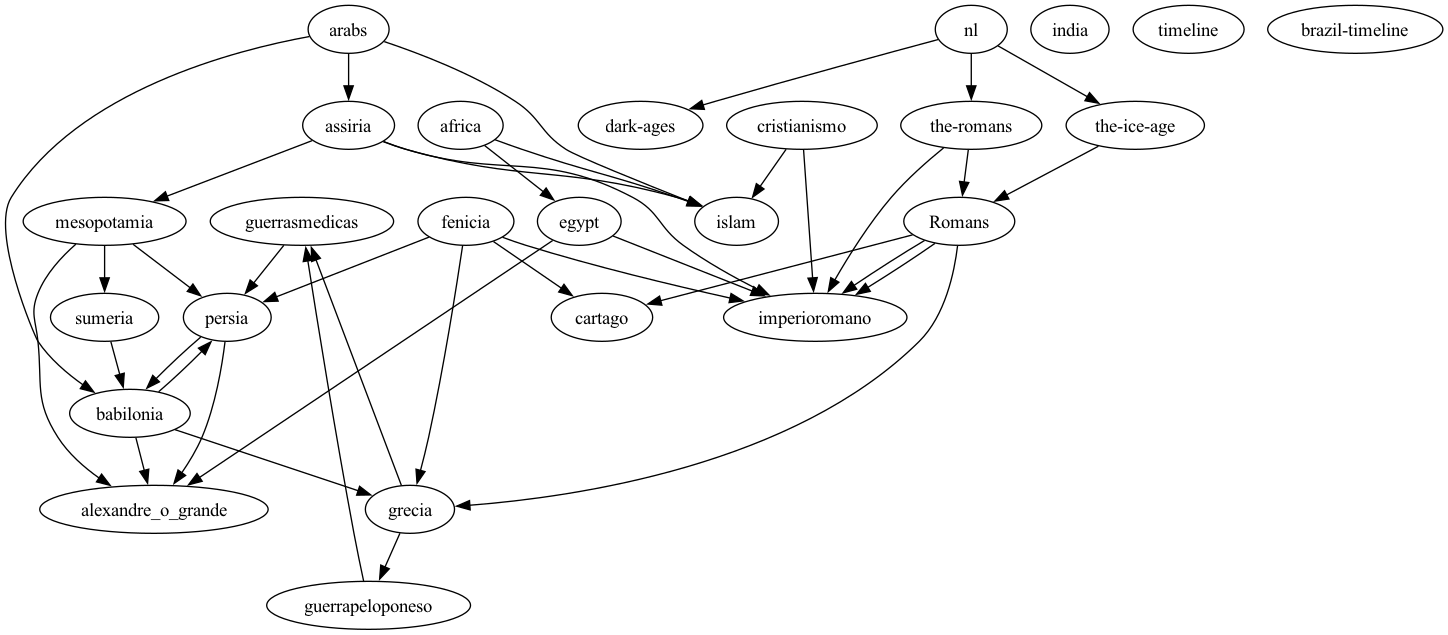
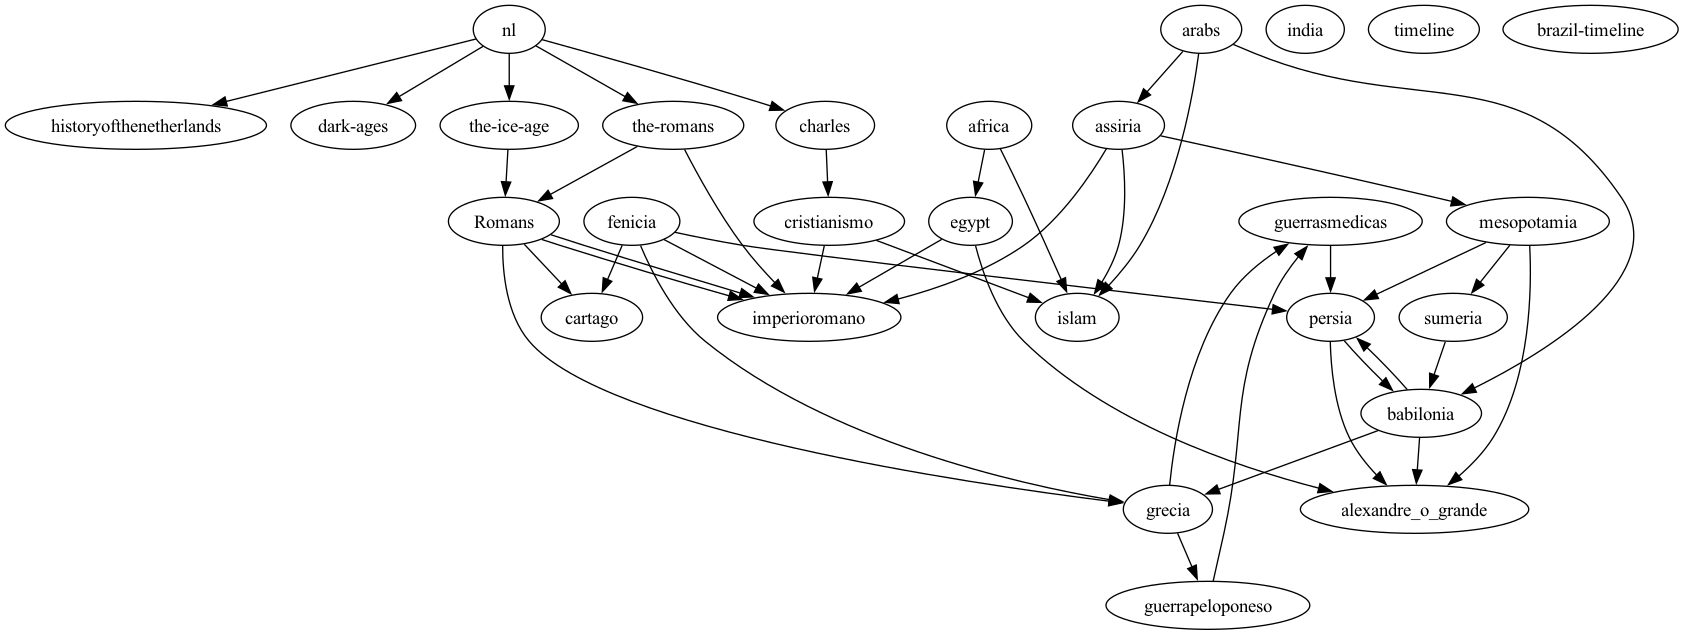
feat: carlos magno ::by sergio giraldo @ 20241214T0951CET, gpg signed

diff --git a/docs/netherlands/charles.md b/docs/netherlands/charles.md
@@ -1,0 +1,33 @@
+# Charles in Charge
+
+In the latter half of the 8th century, events and circumstances around Europe become vastly influenced by a man who ruled a huge empire from his capital city of Aachen, just a stone’s throw away from the lowlands. This man is almost single-handedly responsible for the name Charles being as popular as it is today. But this Charles was, apparently, greater than the rest, and so he gets to be called Charlemagne in French, Karl der Große in German, Carlo Magno in Italian, Karel de Grote in Dutch, or simply just Charles the Great in English.
+
+## Charlemagne’s Rise to Power
+
+Charles Martel, the grandfather of Charlemagne and the Christianiser of the Frisians, had a son named Pepin. Pepin would finally cast off the facade of the ruling Merovingian dynasty that had emerged out of the Salian Franks. Pepin had the Merovingian king sent to a monastery, and became the king of the Franks himself - the first of what would become known as the Carolingian dynasty. Pepin, being a Frank, followed the custom of dividing his land and titles between his sons. When he died, his two sons Charles and Carloman had to share the entirety of the empire with each other. Tension would grow between the two brothers until Carloman conveniently died in 771 CE, with Charles becoming the sole ruler of his father’s kingdom. He immediately set out to expand it and, after winning some 50 battles, Charles managed to claim almost the entire mainland of modern day Europe, earning his epithet ‘the great’. His empire stretched from the Atlantic Ocean to the North Sea, and as far east as the Danube river. His was a territory inhabited by many different groups, loosely tied together under labels like ‘the Franks’, but separated by rivers, forests, coasts and mountains. Out of his loosely configured empire, he would create the feudal system, which would structure European political forces for centuries to come.
+
+## The Vassal System
+
+Charlemagne created a vassal system which needed constant oversight. He was well known for going around his empire and checking the loyalty and administrative capabilities of his subjects. Although his empire was massive, big plains stretched across it from the south-west to the north-east, across modern France and Germany, coming together in the lowlands. He therefore made his capital, Aachen, located right in between these two plains. Aachen and the southern lowlands thus became the centre of the so-called Carolingian Renaissance, where art and intellectual life began to flourish in the 9th century. The culture would have spread across those plains, as well as up and down the rivers. Stoked by the establishment of [Christianity](../cristianismo) as the empire’s religion, cathedrals, abbeys and convents were built and wealth began to be amassed by the Church.
+
+| ![map](images/Topography-3.jpg) |
+| *The topography of Charlemagne’s empire. Note the location of the capital, Aachen, in relation to the lower areas.* |
+
+## Warring Grandchildren
+
+Charlemagne died in 814CE, leading to his son Louis the Pious taking over the empire. Louis later divided it into three parts, as was Frankish custom. His adult sons, Lothar, Louis the German and Charles the Bald, then began what would become a favourite family tradition of trying to kill each other in their attempts to become the sole ruler. After a period of civil war, the Treaty of Verdun split up Charlemagne’s former empire into three parts, known as East Francia, Middle Francia and West Francia.
+
+## Viking Raids
+
+It is impossible to look at the early Middle Ages in Western Europe without seeing effects of the Viking presence. Vikings came from Scandinavia in the north. Raiding down the coast, Vikings attacked Friesland and the areas that would become Holland, Zeeland and Flanders. But many Vikings also stayed, integrated into and ruled over those societies over time. The  best example of this in the lowlands is Rorik of Dorestad, who would become a part of the tangled web of politics that grew out of the devolution of Charlemagne’s empire. Another important figure was Godfrey Sea-King, would later achieve rule over Friesland by making a marriage alliance with one of Charlemagne’s grandchildren.
+
+This was an era where power was gained through violence, diplomatic wiles and wealth, demonstrating that no matter how much things may change, some things always will stay the same. War, marriage and alliance systems were made to serve the individual prospects of the parties involved. If you conducted a violent act, but did it with enough wile, you could avoid judicial ramifications and position yourself quite highly within the vassalage system of the Carolingian empire.
+
+Baldwin Iron Arm, a man with a fantastic name, kidnapped the daughter of the King of West Francia, and was rewarded with being enfeoffed the region of Flanders, so becoming its first Count. Here marked the arrival of one of the most influential regions of the medieval lowlands, and one that will be with us until we chisel out the modern country of the Netherlands in about 700 years time. The counts of Flanders will hold such sway over the following centuries that world history will hinge on decisions that they, alone, will make.
+
+## Dissolution of Charlemagne’s Empire
+
+For now, however, by the end of the 9th century Charlemagne’s empire was split into East Francia, West Francia, and the lands in between which would became known as Lotharingia. East Francia was essentially today’s Germany, West Francia today’s France, and Lotharingia contained in its northern half our humble, little lowlands.
+
+From now on, the identity to emerge in the lowlands amongst individuals and groups will be impacted by the ebb and flow of power between the two larger states on its flanks - East and West Francia, France and Germany. 
+

diff --git a/docs/netherlands/nl.md b/docs/netherlands/nl.md
@@ -1,7 +1,11 @@
 # Netherlands
 
+| [podcast](https://www.republicofamsterdamradio.com/historyofthenetherlands)
+
 [The Ice Age](the-ice-age)
 
 [What have the Romans ever done for us?](the-romans)
 
 [Illuminating the Dark Ages](dark-ages)
+
+[Charles, the Greate](charles)
